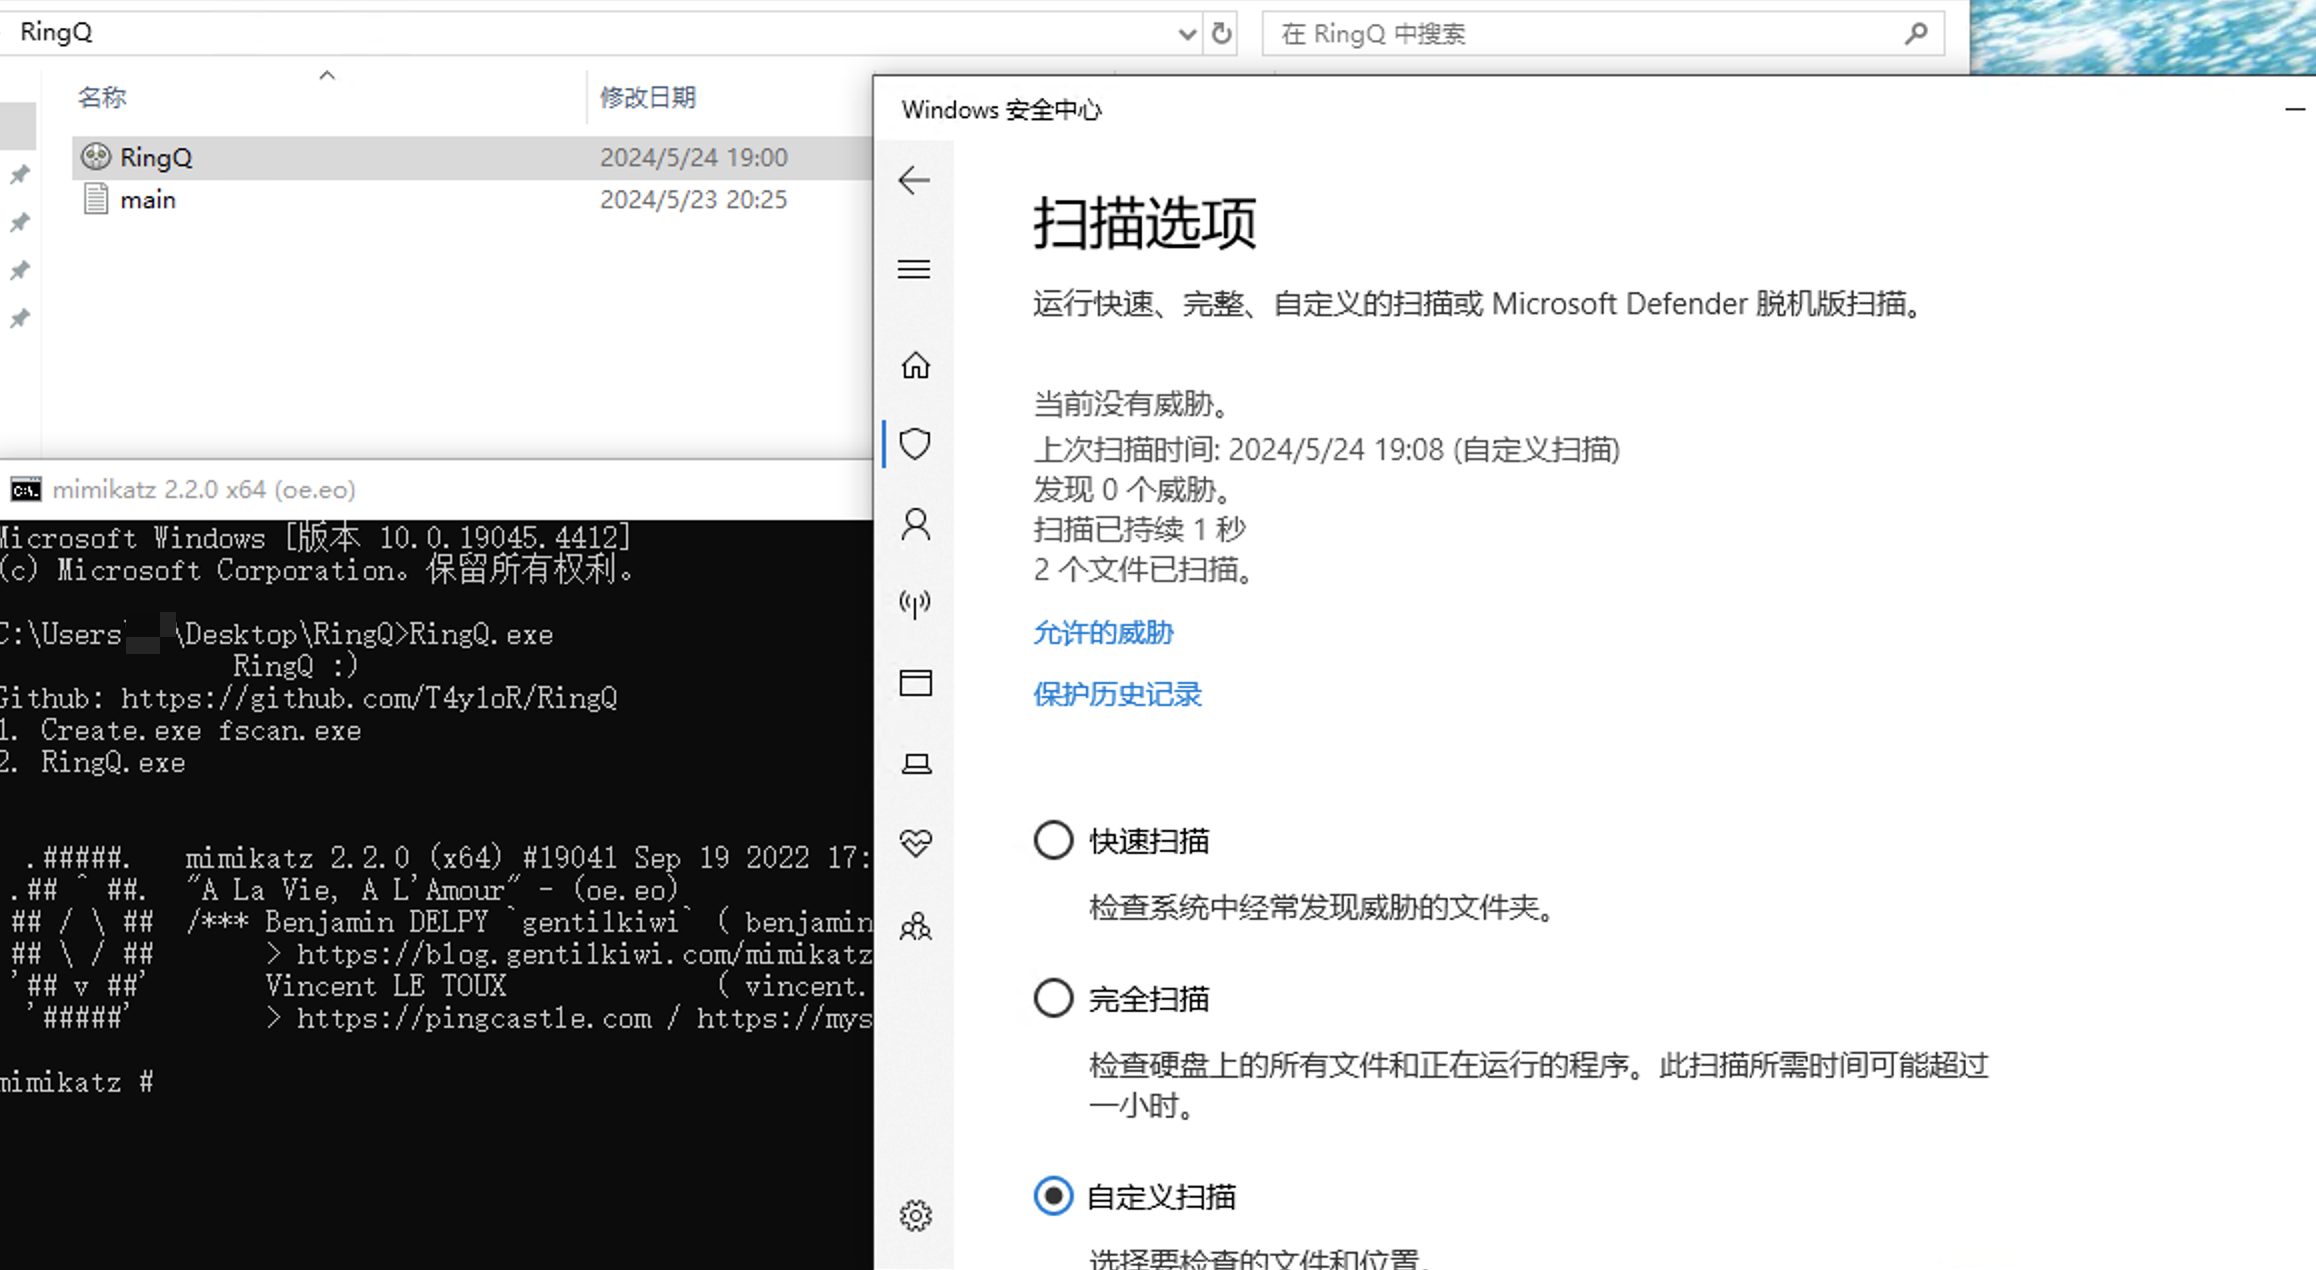
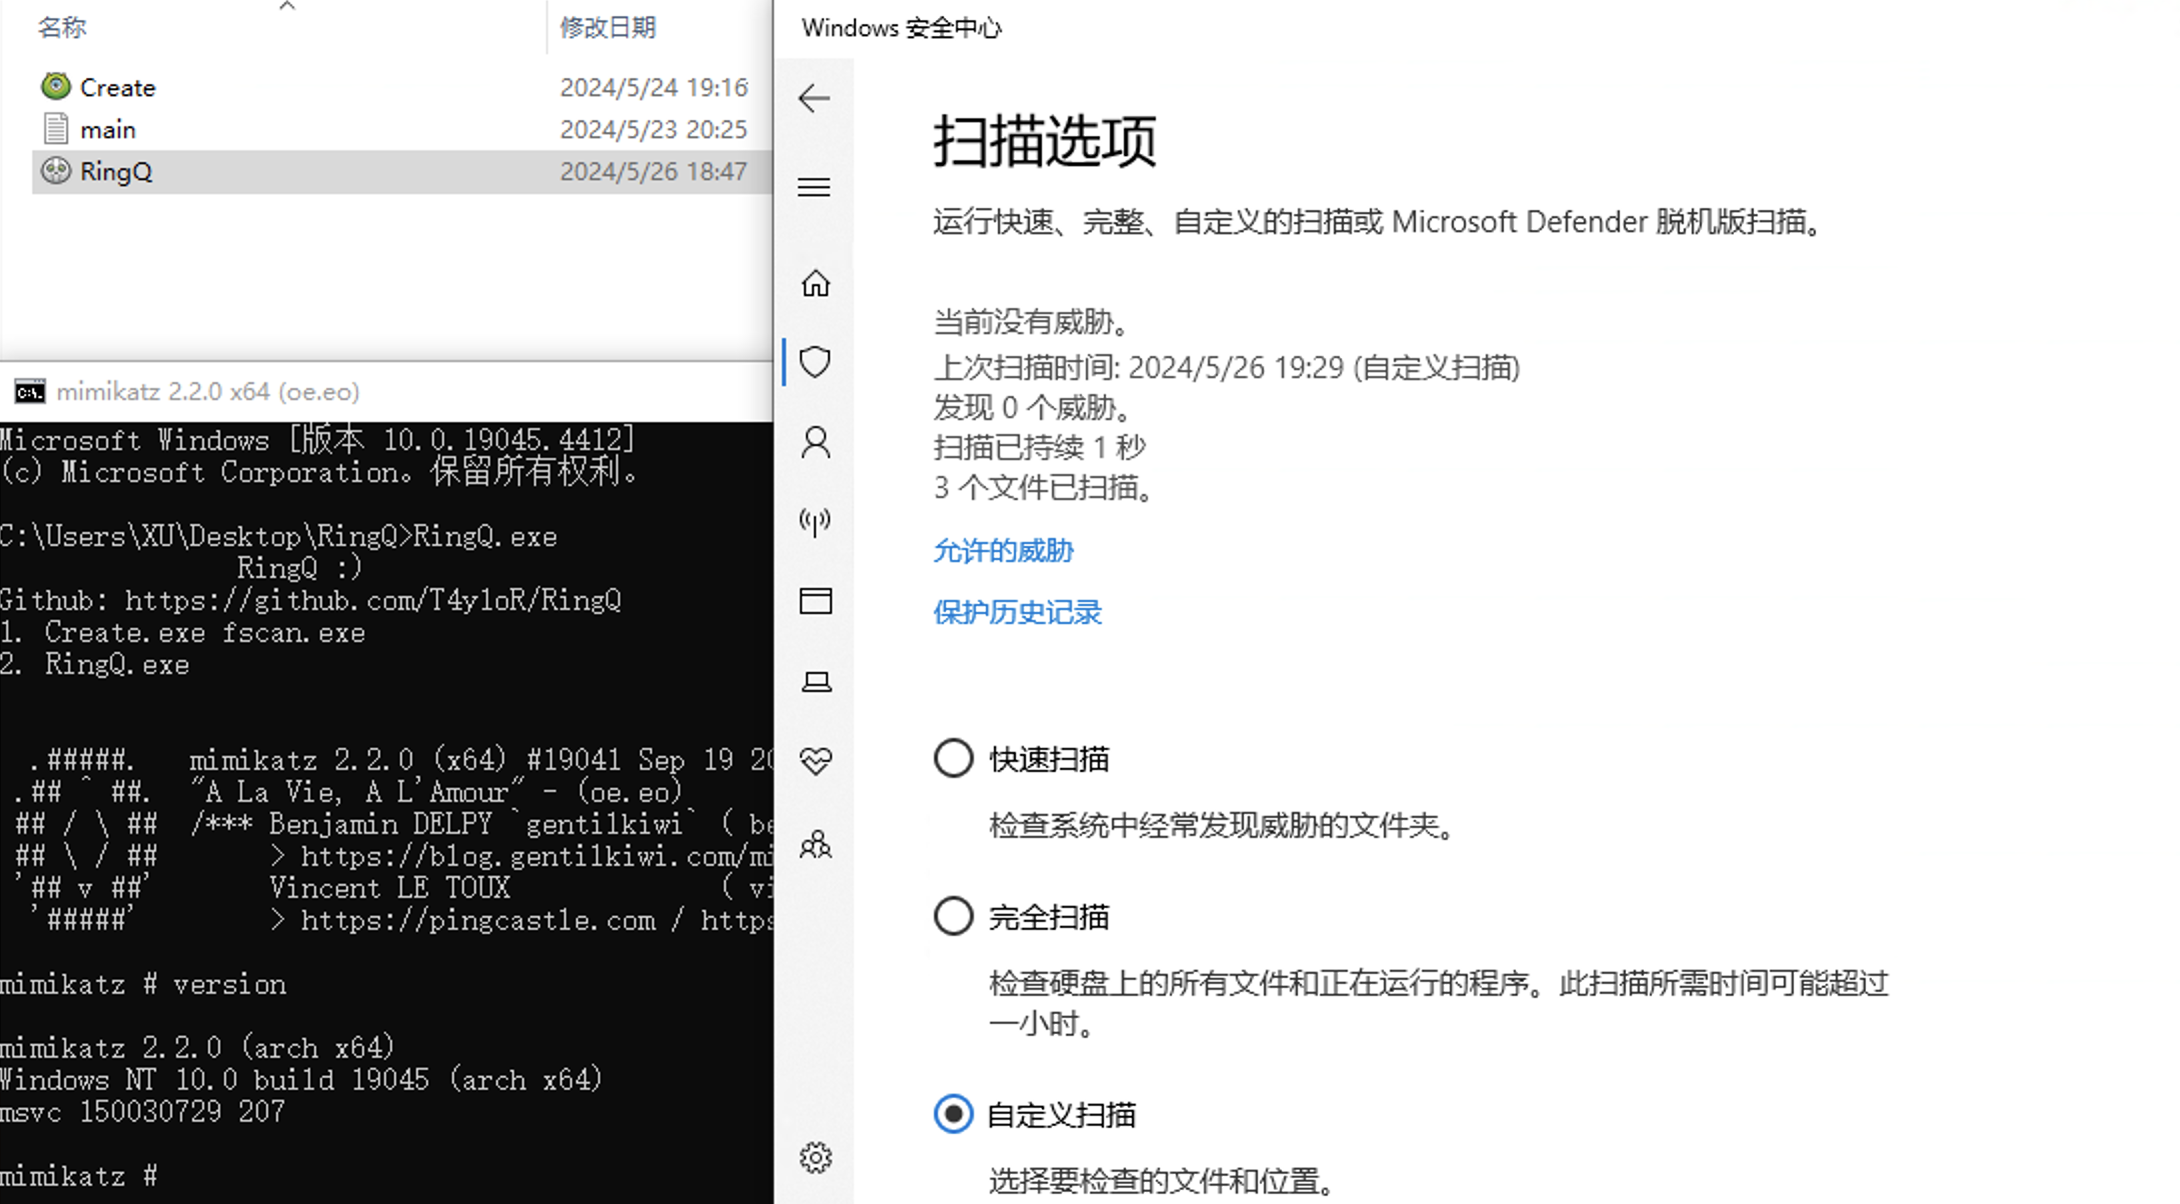
20240526

Changed region(s): [[0.0, 0.0, 1.0, 1.0], [0.2495, 0.0, 0.3119, 0.0307], [0.0, 0.0, 0.0624, 0.0307]]

diff --git a/README.md b/README.md
@@ -44,14 +44,14 @@
 
 ### **微步**
 ![](https://github.com/T4y1oR/RingQ/blob/main/images/image-20240511162750465.png)
-### **360**（2024.05.24更新）
+### **360**（2024.05.26更新）
 ![](https://github.com/T4y1oR/RingQ/blob/main/images/360.png)
 ![](https://github.com/T4y1oR/RingQ/blob/main/images/image-20240511165253870.png)
 
-### **Windows Defender**（2024.05.24更新）
+### **Windows Defender**（2024.05.26更新）
 ![](https://github.com/T4y1oR/RingQ/blob/main/images/DF.png)
 
-### **火绒6.0**（2024.05.24更新）
+### **火绒6.0**（2024.05.26更新）
 ![](https://github.com/T4y1oR/RingQ/blob/main/images/hr.png)
 
 ### **卡巴斯基**（2024.05.22更新）
